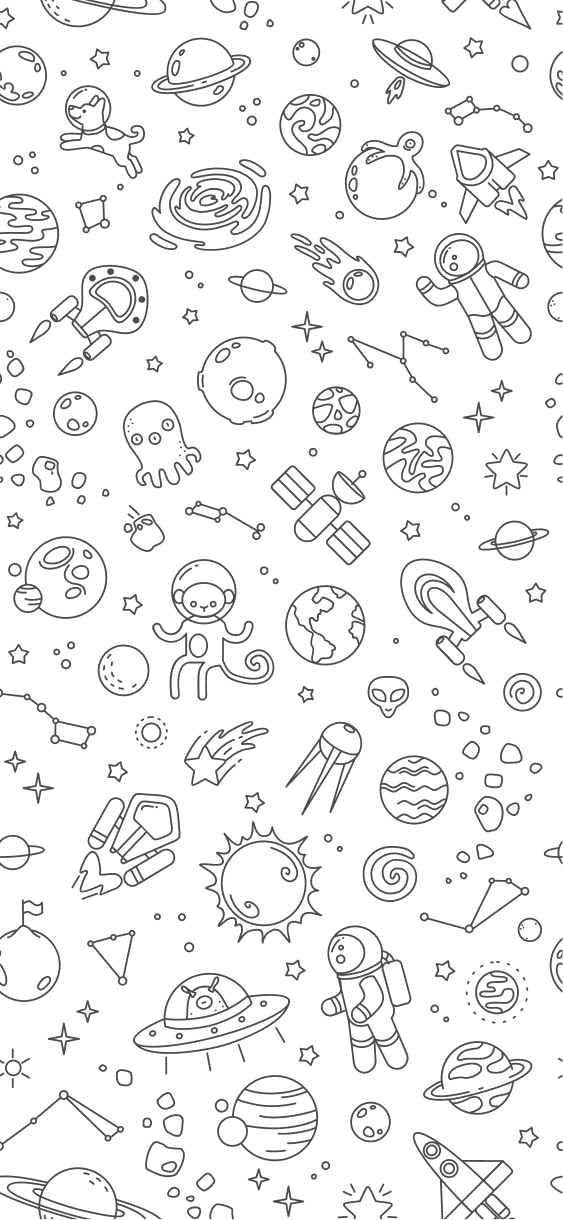
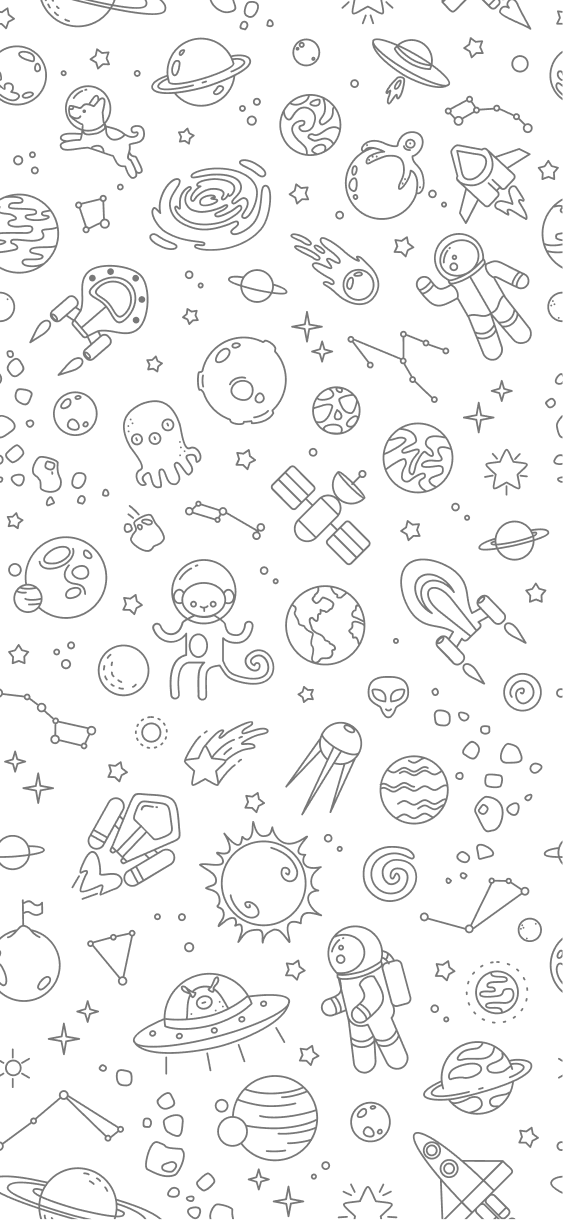
تغیر بکگراند چت

diff --git a/wwwroot/css/imported-chat-styles.css b/wwwroot/css/imported-chat-styles.css
@@ -54,7 +54,7 @@ textarea#message-input.hide-scrollbar::-webkit-scrollbar {
 }
 
 #chat_content {
-    background-image: url(/assets/media/avatar/new-pattern-6.png);
+    background-image: url(/assets/media/avatar/new-pattern-63.png);
     /*background-repeat: repeat-x;*/
     background-color: #f6f5f3;
     position: relative;